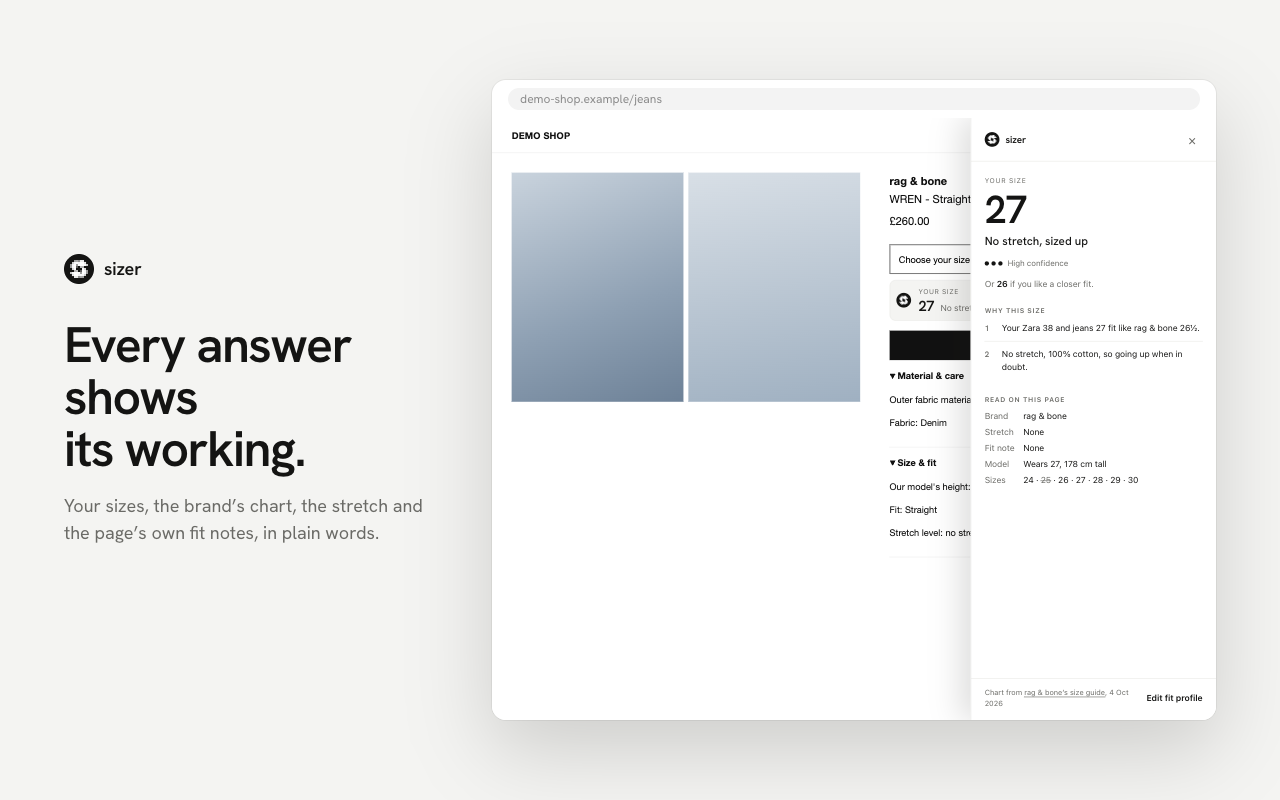
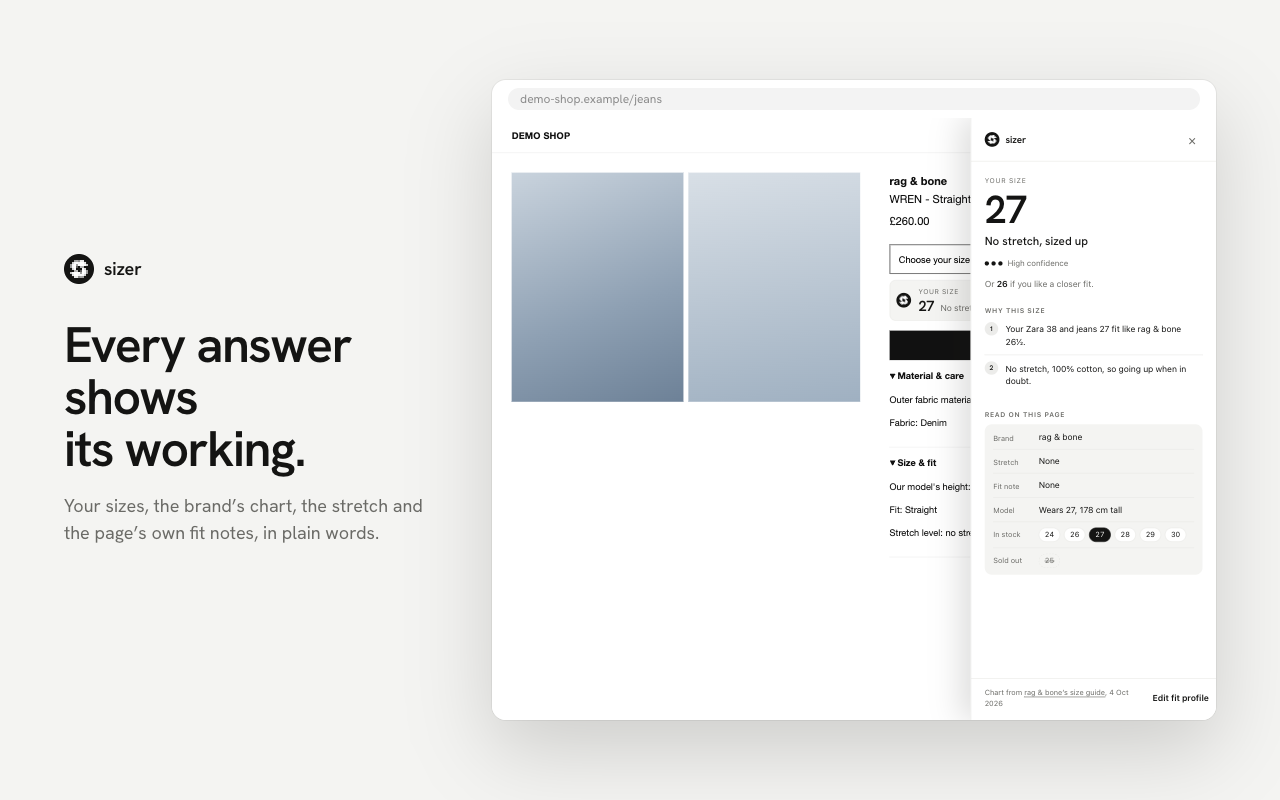
Give the sheet a read-out card with stock chips, feet on the figure, and HeroUI-style interactions
The page facts in the sheet were a bare label/value grid; they sit in a card now,
with the sizes split into in-stock and sold-out chips and the pick marked. The
figure on the fit profile gets feet, so the foot length line runs along a foot
instead of floating under the legs. Every control across the sheet, popup and
fit profile gets the same hover, press and focus treatment: a soft wash on
hover, a small scale on press, one focus ring, with reduced motion respected.

Changed region(s): [[0.75, 0.4062, 0.9375, 0.6875], [0.9062, 0.8438, 0.9375, 0.875]]

diff --git a/src/panel-style.js b/src/panel-style.js
@@ -136,13 +136,29 @@ h3 { margin: 26px 0 8px; font-size: 11px; font-weight: 600; letter-spacing: .1em
 ol { list-style: none; margin: 0; padding: 0; counter-reset: r; }
 ol li { display: flex; gap: 12px; padding: 10px 0; border-top: 1px solid var(--hair); counter-increment: r; }
 ol li:first-child { border-top: 0; padding-top: 2px; }
-ol li::before { content: counter(r); flex: none; width: 16px; font: 600 13px/1.6 var(--serif); color: var(--muted); }
-ol li span { flex: 1; }
+ol li::before { content: counter(r); flex: none; width: 22px; height: 22px; border-radius: 50%; background: var(--accent-wash); font: 600 11px/22px var(--serif); text-align: center; color: var(--graphite); }
+ol li span { flex: 1; padding-top: 2px; }
 ol li em { flex: none; align-self: flex-start; font-style: normal; font-size: 12px; font-weight: 600; color: var(--accent); background: var(--accent-wash); padding: 2px 8px; border-radius: 999px; }
-dl { display: grid; grid-template-columns: auto 1fr; gap: 6px 14px; margin: 0; }
-dt { color: var(--muted); }
-dd { margin: 0; overflow-wrap: anywhere; }
-dd s { color: var(--muted); }
+.facts { background: var(--fog); border-radius: 12px; padding: 2px 14px; }
+.fact { display: flex; gap: 14px; padding: 9px 0; border-top: 1px solid var(--hair); }
+.fact:first-child { border-top: 0; }
+.fact .k { flex: none; width: 60px; padding-top: 3px; font-size: 12px; color: var(--muted); }
+.fact .v { flex: 1; display: flex; flex-wrap: wrap; align-items: center; gap: 6px; overflow-wrap: anywhere; }
+.chip { display: inline-block; padding: 2px 9px; border: 1px solid var(--hair); border-radius: 999px; background: var(--paper); font-size: 12px; font-variant-numeric: lining-nums tabular-nums; }
+.chip.pick { background: var(--accent); border-color: var(--accent); color: var(--fog); }
+.chip.gone { background: none; border-style: dashed; color: var(--muted); text-decoration: line-through; }
+/* Micro-interactions: soft hover, a small press, one focus ring */
+button, .chip, .fine a { transition: background-color .2s ease, border-color .2s ease, color .2s ease, box-shadow .2s ease, transform .15s ease, opacity .2s ease; }
+button:active { transform: scale(.96); }
+.line .go { border-radius: 999px; padding: 6px 12px; }
+.line .go:hover { background: var(--accent-wash); text-decoration: none; }
+.line .cta:active { transform: scale(.97); }
+.pill:hover { transform: translateY(-1px); box-shadow: 0 12px 32px rgba(28, 27, 24, .26); }
+.pill:active { transform: translateY(0) scale(.97); }
+.close:active { transform: scale(.9); }
+.link { border-radius: 999px; padding: 6px 10px; margin-right: -10px; }
+.link:hover { background: var(--accent-wash); }
+.chip:not(.gone):not(.pick):hover { border-color: var(--muted); }
 .sheet footer { display: flex; justify-content: space-between; align-items: center; gap: 12px; padding: 14px 22px 18px; border-top: 1px solid var(--hair); }
 .fine { font-size: 12px; color: var(--muted); }
 .fine a { color: inherit; text-decoration: underline; text-underline-offset: 2px; }

diff --git a/src/content.js b/src/content.js
@@ -126,12 +126,20 @@
     if (r.needsProfile) return `<p class="empty">${esc(r.reason)}</p>`;
     if (!r.ok) return `<p class="empty">${esc(r.reason)}</p>`;
     const s = r.signals;
+    const norm = (x) => String(x || '').replace(/\s+/g, '').toUpperCase();
+    const chip = (x) => `<span class="chip${x.available === false ? ' gone' : ''}${norm(x.label) === norm(r.size) ? ' pick' : ''}">${esc(x.label)}</span>`;
+    const stockKnown = p.sizes.some((x) => x.available != null);
+    const inStock = p.sizes.filter((x) => x.available !== false);
+    const soldOut = p.sizes.filter((x) => x.available === false);
     const facts = [
       ['Brand', r.brand ? `${esc(r.brand)}${r.brandKnown ? '' : ', no size chart yet'}` : 'Not found'],
       r.shoes ? null : ['Stretch', { none: 'None', slight: 'A little', high: 'Lots', unknown: 'Not stated' }[s.stretch] + (s.elastanePct ? `, ${s.elastanePct}% elastane` : '')],
       ['Fit note', s.fitNote ? `“${esc(s.fitNoteText)}”` : 'None'],
       s.modelSize && !r.shoes ? ['Model', `Wears ${esc(s.modelSize)}${s.modelHeight ? `, ${s.modelHeight} cm tall` : ''}`] : null,
-      ['Sizes', p.sizes.length ? p.sizes.map((x) => (x.available === false ? `<s>${esc(x.label)}</s>` : esc(x.label))).join(' · ') : 'Not found'],
+      !p.sizes.length ? ['Sizes', 'Not found']
+        : !stockKnown ? ['Sizes', p.sizes.map(chip).join('')]
+          : ['In stock', inStock.length ? inStock.map(chip).join('') : 'None'],
+      stockKnown && soldOut.length ? ['Sold out', soldOut.map(chip).join('')] : null,
     ].filter(Boolean);
     return `
       <div class="hero">
@@ -146,7 +154,7 @@
       <h3>Why this size</h3>
       <ol>${r.reasons.map((x) => `<li><span>${esc(x.text)}</span>${x.delta ? `<em>${x.delta > 0 ? '+' : '−'}${Math.abs(x.delta)} size</em>` : ''}</li>`).join('')}</ol>
       <h3>Read on this page</h3>
-      <dl>${facts.map(([k, v]) => `<dt>${k}</dt><dd>${v}</dd>`).join('')}</dl>`;
+      <div class="facts">${facts.map(([k, v]) => `<div class="fact"><span class="k">${k}</span><span class="v">${v}</span></div>`).join('')}</div>`;
   }
 
   function renderSheet() {

diff --git a/ui/options.html b/ui/options.html
@@ -41,8 +41,8 @@
           </div>
 
           <div class="measure">
-            <svg class="figure" viewBox="0 0 120 300" aria-hidden="true">
-              <path class="form" d="M52,30 L52,42 C40,45 30,47 28,56 L30,92 C33,104 40,108 41,116 C40,126 30,136 29,150 L32,200 L38,288 L52,288 L56,180 L60,168 L64,180 L68,288 L82,288 L88,200 L91,150 C90,136 80,126 79,116 C80,108 87,104 90,92 L92,56 C90,47 80,45 68,42 L68,30 C68,24 64,20 60,20 C56,20 52,24 52,30 Z"/>
+            <svg class="figure" viewBox="0 0 120 312" aria-hidden="true">
+              <path class="form" d="M52,30 L52,42 C40,45 30,47 28,56 L30,92 C33,104 40,108 41,116 C40,126 30,136 29,150 L32,200 L38,288 C31,291 28,297 32,302 C37,305 46,304 52,300 L52,288 L56,180 L60,168 L64,180 L68,288 L68,300 C74,304 83,305 88,302 C92,297 89,291 82,288 L88,200 L91,150 C90,136 80,126 79,116 C80,108 87,104 90,92 L92,56 C90,47 80,45 68,42 L68,30 C68,24 64,20 60,20 C56,20 52,24 52,30 Z"/>
               <g class="line" data-m="waist">
                 <ellipse cx="60" cy="116" rx="21" ry="4"/>
                 <circle cx="81" cy="116" r="2"/>
@@ -56,8 +56,8 @@
                 <circle cx="58" cy="172" r="2"/><circle cx="53" cy="284" r="2"/>
               </g>
               <g class="line" data-m="footLength">
-                <path d="M66,292 L84,292"/>
-                <circle cx="66" cy="292" r="2"/><circle cx="84" cy="292" r="2"/>
+                <path d="M70,297 L88,297"/>
+                <circle cx="70" cy="297" r="2"/><circle cx="88" cy="297" r="2"/>
               </g>
             </svg>
 

diff --git a/ui/options.css b/ui/options.css
@@ -169,3 +169,18 @@ h2 { font: 600 26px/1.15 var(--serif); margin: 0; letter-spacing: -0.02em; }
   .item-row, .prefs { grid-template-columns: 1fr; }
 }
 @media (prefers-reduced-motion: reduce) { * { animation: none !important; transition: none !important; } }
+
+/* Micro-interactions: soft hover, a small press, one focus ring, in the HeroUI register */
+button, .field, .mini input, .types button, .prefs button { transition: background-color 0.2s ease, border-color 0.2s ease, color 0.2s ease, box-shadow 0.2s ease, transform 0.15s ease, opacity 0.2s ease; }
+button:active:not(:disabled) { transform: scale(0.97); }
+button:disabled { opacity: 0.5; cursor: not-allowed; }
+.seg button:hover:not([aria-checked="true"]) { background: var(--accent-soft); color: var(--ink); }
+.seg button[aria-checked="true"]:hover { opacity: 0.88; }
+.types button:hover:not([aria-checked="true"]) { border-color: var(--faint); color: var(--ink); background: var(--field); }
+.field:hover:not(.on) { border-color: var(--faint); }
+.mini input:hover:not(:focus) { border-color: var(--faint); }
+.prefs button:hover:not([aria-checked="true"]) { border-color: var(--faint); background: var(--field); }
+.prefs button[aria-checked="true"]:hover { box-shadow: 0 0 0 4px var(--accent-soft); }
+.add:active { transform: scale(0.995); }
+.remove:active { transform: scale(0.9); }
+.read-card { transition: background-color 0.2s ease, color 0.2s ease; }

diff --git a/ui/ui.css b/ui/ui.css
@@ -60,3 +60,10 @@ p { margin: 0 0 14px; }
 
 .foot { display: flex; justify-content: space-between; align-items: center; gap: 10px; margin-top: 18px; padding-top: 12px; border-top: 1px solid var(--line); }
 .link { border: 0; background: none; padding: 2px 0; color: var(--accent); font-weight: 600; font-size: 13px; }
+
+/* Micro-interactions: soft hover, a small press, one focus ring */
+button { transition: background-color .2s ease, border-color .2s ease, color .2s ease, filter .2s ease, transform .15s ease, opacity .2s ease; }
+button:active:not(:disabled) { transform: scale(.97); }
+.btn.ghost:hover { filter: none; background: var(--line); }
+.link { border-radius: 999px; padding: 4px 8px; margin: 0 -8px; }
+.link:hover { background: var(--line); }
